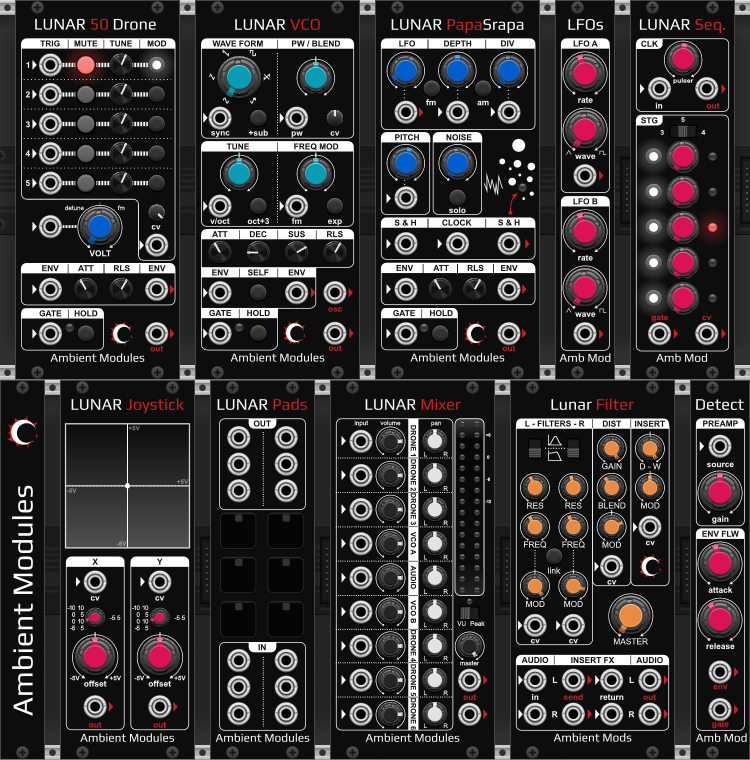
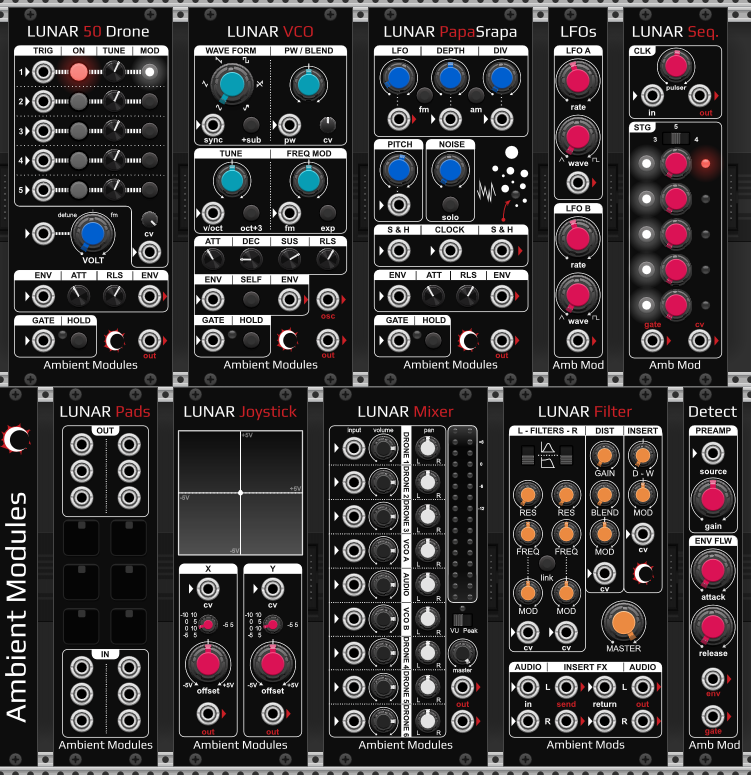
Lunar50Drone: relabel the oscillator buttons from MUTE to ON
The lit button means the oscillator is sounding, which the hardware's
MUTE label contradicted. Panels regenerated for all themes, screenshots
and README updated.

diff --git a/README.md b/README.md
@@ -113,7 +113,7 @@ An empty panel with no parameters, inputs, or outputs — a spacer/template modu
 Five simple sawtooth oscillators sharing one output and one envelope — the Classic Solar 50 drone voice. Each of the 5 oscillators can be switched on or off independently to build chords and triads, and the **Volt** knob detunes and then cross-modulates them together for FM-style drone textures, exactly as on the original hardware.
 
 **Knobs & switches**
-- **Oscillator 1–5 active** (lit button) — mutes/unmutes that oscillator. Can also be toggled from the corresponding trigger input. Not polyphonic: it's a single on/off state per oscillator, shared identically by every poly channel — there's no per-channel "active" state. Oscillator 1 defaults to active, the other four to inactive, so a freshly-added module produces sound immediately instead of silence.
+- **Oscillator 1–5 active** (lit button, labeled **ON** on the panel; **MUTE** on the hardware) — lit = that oscillator is sounding, unlit = muted. Can also be toggled from the corresponding trigger input. Not polyphonic: it's a single on/off state per oscillator, shared identically by every poly channel — there's no per-channel "active" state. Oscillator 1 defaults to active, the other four to inactive, so a freshly-added module produces sound immediately instead of silence.
 - **Oscillator 1–5 frequency** — one knob per oscillator, octave-linear tuning centered on C4.
 - **Oscillator 1–5 modulation** (lit button) — enables that oscillator's contribution to the cross-modulation described below. Oscillator 1 defaults to on, the other four to off.
 - **CV Attenuverter** — scales the incoming Frequency CV (±100%, defaults to +100%) before it's applied to all 5 oscillators together, so it shifts their combined pitch while preserving the intervals between them. ⚠ Following the real SOLAR 42F, an oscillator only responds to Frequency CV once its own **Modulation** button is enabled — with the attenuverter at its default +100%, enabling Modulation on an oscillator is normally enough on its own; turn the attenuverter down (or all the way to 0%) if you want to reduce or fully disable Frequency CV's effect on every oscillator at once. This gating-by-Modulation-button is by design, not a bug: it mirrors the original hardware's per-oscillator "modulation enable" switch.
